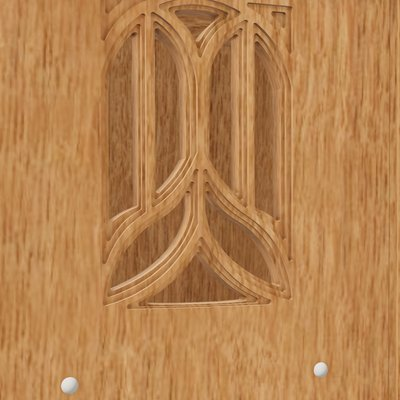
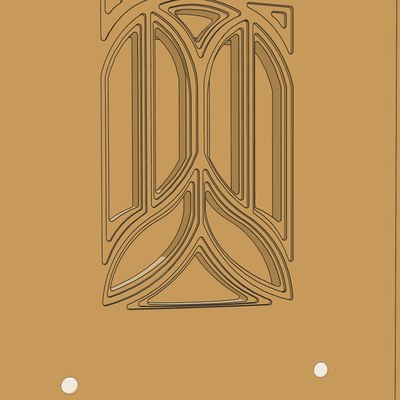
Aumbry 2.0 previews in a flat drawn style, no orange track
Renders now use flat oak, ink and birch fills with ink edge lines
(tools/aumbry/flat.html). Adds the RFID plate and the wall display
shots, built from the clean model, so no 2024 orange-track image remains.

Claude-Session: https://claude.ai/code/session_011HzqZZDN1sfoAAF3ZfSuU4

diff --git a/tools/aumbry/flat.html b/tools/aumbry/flat.html
@@ -1,0 +1,136 @@
+<!doctype html><html><head><meta charset="utf-8">
+<style>html,body{margin:0;background:transparent}canvas{display:block}</style>
+<script type="importmap">{"imports":{"three":"./npm/package/build/three.module.js","three/addons/":"./npm/package/examples/jsm/"}}</script>
+</head><body>
+<script type="module">
+// Flat "3D sketch" render of the Aumbry: palette fills from the Yarden Amir design system,
+// three tone bands per material, ink edge lines, a flat cast shadow. Transparent background.
+import * as THREE from 'three';
+import { LineSegments2 } from 'three/addons/lines/LineSegments2.js';
+import { LineSegmentsGeometry } from 'three/addons/lines/LineSegmentsGeometry.js';
+import { LineMaterial } from 'three/addons/lines/LineMaterial.js';
+const P = Object.fromEntries(new URLSearchParams(location.search));
+const W = +P.w || 1600, H = +P.h || 1200, SS = +P.ss || 2;
+THREE.Object3D.DEFAULT_UP.set(0, 0, 1);
+THREE.ColorManagement.enabled = false;
+const renderer = new THREE.WebGLRenderer({ antialias: true, alpha: true, preserveDrawingBuffer: true });
+renderer.outputColorSpace = THREE.LinearSRGBColorSpace; // colours below are written straight to screen
+renderer.setPixelRatio(1); renderer.setSize(W * SS, H * SS); renderer.setClearColor(0, 0);
+renderer.shadowMap.enabled = true; renderer.shadowMap.type = THREE.PCFShadowMap;
+document.body.appendChild(renderer.domElement);
+const scene = new THREE.Scene();
+const C = (h) => new THREE.Color(h);
+const mix = (a, b, t) => C(a).lerp(C(b), t);
+// tokens: oak #C79A5B, oak-deep #7A5A30, birch #F1E9DC, ink #262422, paper #FFFFFF
+const TONES = {
+  wood: [mix('#C79A5B', '#F1E9DC', 0.38), C('#C79A5B'), mix('#C79A5B', '#7A5A30', 0.42), mix('#C79A5B', '#7A5A30', 0.78)],
+  aluminium: [C('#4a4642'), C('#3a3633'), C('#262422'), C('#262422')],
+  dowels: [C('#FFFFFF'), C('#F1E9DC'), mix('#F1E9DC', '#C79A5B', 0.35), mix('#F1E9DC', '#C79A5B', 0.35)],
+  plate: [C('#4a4642'), C('#3a3633'), C('#262422'), C('#262422')],
+  plinth: [C('#FFFFFF'), C('#F1E9DC'), mix('#F1E9DC', '#C79A5B', 0.3), mix('#F1E9DC', '#C79A5B', 0.3)],
+};
+const L = new THREE.Vector3(+P.lx || -0.3, +P.ly || -0.9, +P.lz || 0.3).normalize();
+const toneMat = (t) => new THREE.ShaderMaterial({
+  uniforms: { c0: { value: t[0] }, c1: { value: t[1] }, c2: { value: t[2] }, c3: { value: t[3] }, L: { value: L } },
+  vertexShader: `varying vec3 vN; void main(){ vN = normalize(mat3(modelMatrix) * normal); gl_Position = projectionMatrix * viewMatrix * modelMatrix * vec4(position,1.); }`,
+  fragmentShader: `uniform vec3 c0,c1,c2,c3,L; varying vec3 vN;
+    void main(){ vec3 n = normalize(vN); float d = dot(n, L);
+      vec3 c = n.z > 0.72 ? c0 : (d > 0.45 ? c1 : (d > -0.35 ? c2 : c3));
+      gl_FragColor = vec4(c, 1.); }`,
+  polygonOffset: true, polygonOffsetFactor: 1, polygonOffsetUnits: 1,
+});
+const lineMat = new LineMaterial({ color: 0x262422, linewidth: (+P.lw || 1.1) * SS, worldUnits: false });
+lineMat.resolution.set(W * SS, H * SS);
+const thin = new LineMaterial({ color: 0x262422, linewidth: (+P.lw || 1.1) * 0.6 * SS, worldUnits: false, transparent: true, opacity: 0.55 });
+thin.resolution.set(W * SS, H * SS);
+
+const ix = await (await fetch('model.json')).json();
+const buf = await (await fetch('model.bin')).arrayBuffer();
+const arr = (k, key) => { const [o, n] = ix[k][key]; return key === 'F' ? new Uint32Array(buf, o, n) : new Float32Array(buf, o, n); };
+const center = new THREE.Vector3(9572, -2165, -596);
+const geoms = {};
+for (const k of Object.keys(ix)) {
+  const g = new THREE.BufferGeometry();
+  g.setAttribute('position', new THREE.BufferAttribute(arr(k, 'V'), 3));
+  g.setAttribute('normal', new THREE.BufferAttribute(arr(k, 'N'), 3));
+  g.setIndex(new THREE.BufferAttribute(arr(k, 'F'), 1));
+  g.translate(-center.x, -center.y, -center.z);
+  geoms[k] = g;
+}
+const edgeCache = {};
+const edgesOf = (k, g) => edgeCache[k] || (edgeCache[k] = new LineSegmentsGeometry().setPositions(new THREE.EdgesGeometry(g, +P.ang || 28).attributes.position.array));
+const mats = Object.fromEntries(Object.entries(TONES).map(([k, t]) => [k, toneMat(t)]));
+function addPart(k, group, kind) {
+  const g = geoms[k]; const m = new THREE.Mesh(g, mats[kind || k.split(':')[0]]);
+  m.castShadow = true; group.add(m);
+  const isDowel = k.startsWith('dowels');
+  group.add(new LineSegments2(edgesOf(k, g), isDowel ? thin : lineMat));
+  return m;
+}
+const aumbry = new THREE.Group(); scene.add(aumbry);
+for (const k of Object.keys(geoms)) addPart(k, aumbry);
+function addBox(group, sx, sy, sz, x, y, z, kind) {
+  const g = new THREE.BoxGeometry(sx, sy, sz); g.translate(x, y, z);
+  const m = new THREE.Mesh(g, mats[kind]); m.castShadow = m.receiveShadow = true; group.add(m);
+  group.add(new LineSegments2(new LineSegmentsGeometry().setPositions(new THREE.EdgesGeometry(g).attributes.position.array), lineMat));
+  return m;
+}
+if (P.rfid) {
+  // the RFID lock plate on the track beside the door, as in the 2024 proposal
+  const zc = +P.rfid;
+  addBox(aumbry, 64, 3, 64, -159, -178.5, zc, 'plate');
+  // contactless mark, drawn as lines on the plate face
+  const pts = []; const y = -180.2;
+  const arc = (r) => { for (let i = 0; i < 16; i++) { const a0 = -0.75 + 1.5 * i / 16, a1 = -0.75 + 1.5 * (i + 1) / 16;
+    pts.push(-159 - 12 + r * Math.cos(a0), y, zc + r * Math.sin(a0), -159 - 12 + r * Math.cos(a1), y, zc + r * Math.sin(a1)); } };
+  [8, 15, 22].forEach(arc);
+  const mk = new LineMaterial({ color: 0xF1E9DC, linewidth: 1.6 * SS }); mk.resolution.set(W * SS, H * SS);
+  aumbry.add(new LineSegments2(new LineSegmentsGeometry().setPositions(pts), mk));
+}
+if (P.display) {
+  // proposed display: the front panels milled a second time and hung flat on the wall behind, aumbry on a plinth
+  const wallY = +P.wally || 900, dx = +P.ax || -420;
+  aumbry.position.set(dx, 0, 120);
+  addBox(scene, 1180, 560, 120, dx, 10, 60, 'plinth');
+  const wall = new THREE.Group(); scene.add(wall);
+  // panels: [key, x offset of its centre on the wall, z of its bottom]
+  const hang = [['wood:97', 0, 0], ['wood:92', 400, 245], ['wood:96', 800, 0]];
+  const sides = [];
+  const x0 = +P.wx || 120, z0 = +P.wz || 220;
+  for (const [k, x, dz] of hang) {
+    const g = geoms[k]; g.computeBoundingBox(); const b = g.boundingBox;
+    const grp = new THREE.Group(); addPart(k, grp);
+    grp.position.set(x0 + x - (b.min.x + b.max.x) / 2, wallY - 45 - b.max.y, z0 + dz - b.min.z); wall.add(grp);
+  }
+  for (const [k, x] of sides) {
+    const g = geoms[k]; g.computeBoundingBox(); const b = g.boundingBox;
+    const grp = new THREE.Group(); const inner = new THREE.Group(); addPart(k, inner);
+    inner.rotation.z = (k === 'wood:89' ? -1 : 1) * Math.PI / 2; grp.add(inner); wall.add(grp);
+    const bb = new THREE.Box3().setFromObject(inner);
+    grp.position.set(x0 + x - (bb.min.x + bb.max.x) / 2, wallY - bb.max.y, z0 - bb.min.z);
+  }
+  const wallM = new THREE.Mesh(new THREE.PlaneGeometry(20000, 6000), new THREE.ShadowMaterial({ opacity: 0.2, color: 0x262422 }));
+  // where the wall meets the floor: one thin ink line
+  const fl = new LineMaterial({ color: 0x262422, linewidth: 0.8 * SS, transparent: true, opacity: 0.5 }); fl.resolution.set(W * SS, H * SS);
+  scene.add(new LineSegments2(new LineSegmentsGeometry().setPositions([-4000, wallY, 0, 5000, wallY, 0]), fl));
+  wallM.rotation.x = Math.PI / 2; wallM.position.set(0, wallY + 1, 3000); wallM.receiveShadow = true; scene.add(wallM);
+}
+const ground = new THREE.Mesh(new THREE.PlaneGeometry(20000, 20000), new THREE.ShadowMaterial({ opacity: +P.sh || 0.13, color: 0x262422 }));
+ground.receiveShadow = true; scene.add(ground);
+const key = new THREE.DirectionalLight(0xffffff, 1);
+const ka = (+P.ka || -35) * Math.PI / 180, ke = (+P.ke || 55) * Math.PI / 180;
+key.position.set(4000 * Math.sin(ka) * Math.cos(ke), -4000 * Math.cos(ka) * Math.cos(ke), 4000 * Math.sin(ke));
+key.castShadow = true; key.shadow.mapSize.set(4096, 4096);
+Object.assign(key.shadow.camera, { left: -2200, right: 2200, top: 2200, bottom: -2200, near: 100, far: 10000 });
+key.shadow.bias = -0.0005; scene.add(key);
+const az = (+P.az || 0) * Math.PI / 180, el = (+P.el || 8) * Math.PI / 180, dist = +P.dist || 3600;
+const tgt = new THREE.Vector3(+P.tx || 0, +P.ty || 0, P.tz !== undefined ? +P.tz : 545);
+const cam = new THREE.PerspectiveCamera(+P.fov || 30, W / H, 10, 30000);
+cam.position.set(tgt.x + dist * Math.sin(az) * Math.cos(el), tgt.y - dist * Math.cos(az) * Math.cos(el), tgt.z + dist * Math.sin(el));
+cam.lookAt(tgt);
+renderer.render(scene, cam);
+const out = document.createElement('canvas'); out.width = W; out.height = H; out.id = 'out';
+const c2 = out.getContext('2d'); c2.imageSmoothingQuality = 'high'; c2.drawImage(renderer.domElement, 0, 0, W, H);
+document.body.appendChild(out);
+window.DONE = true;
+</script></body></html>

diff --git a/v5/index.html b/v5/index.html
@@ -121,7 +121,7 @@ html.locked #ov{pointer-events:auto;touch-action:none;cursor:crosshair}
 <div style="font-family: 'IBM Plex Mono', ui-monospace, Menlo, monospace; font-size: 12px; font-weight: 500; letter-spacing: 0.08em; text-transform: uppercase; color: #7A5A30; padding-bottom: 8px; border-bottom: 1px solid #262422">03&nbsp;&nbsp;Selected work</div>
 <a href="https://studioya.github.io/pdf/lasers-ceramics.pdf" target="_blank" rel="noopener" style="display: flex; justify-content: space-between; align-items: center; gap: 12px; min-height: 72px; padding: 8px 0; border-bottom: 1px solid rgba(38, 36, 34, 0.18); text-decoration: none; color: #262422; font-size: 19px; line-height: 1.3"><img src="../img/085277a97b.jpg" alt="Ceramic test tile etched with a radial pattern of tones" style="display: block; width: 56px; height: 56px; flex: none; object-fit: cover; border-radius: 0"><span style="flex: 1; min-width: 0">Lasers × ceramics: research to objects</span><span style="font-family: 'IBM Plex Mono', ui-monospace, Menlo, monospace; font-size: 12px; color: #5F5A52; white-space: nowrap">2023–24 ↗</span></a>
 <a href="https://studioya.github.io/pdf/parametric-objects.pdf" target="_blank" rel="noopener" style="display: flex; justify-content: space-between; align-items: center; gap: 12px; min-height: 72px; padding: 8px 0; border-bottom: 1px solid rgba(38, 36, 34, 0.18); text-decoration: none; color: #262422; font-size: 19px; line-height: 1.3"><img src="../img/efdc1edb24.jpg" alt="Terracotta dish covered in a laser-etched black pixel pattern" style="display: block; width: 56px; height: 56px; flex: none; object-fit: cover; border-radius: 0"><span style="flex: 1; min-width: 0">Parametric objects</span><span style="font-family: 'IBM Plex Mono', ui-monospace, Menlo, monospace; font-size: 12px; color: #5F5A52; white-space: nowrap">2021–now ↗</span></a>
-<a href="https://studioya.github.io/pdf/aumbry-2.0.pdf" target="_blank" rel="noopener" style="display: flex; justify-content: space-between; align-items: center; gap: 12px; min-height: 72px; padding: 8px 0; border-bottom: 1px solid rgba(38, 36, 34, 0.18); text-decoration: none; color: #262422; font-size: 19px; line-height: 1.3"><img src="../img/aumbry-tracery.jpg" alt="Render of stepped, milled Gothic tracery in oak beside a black aluminium track" style="display: block; width: 56px; height: 56px; flex: none; object-fit: cover; border-radius: 0"><span style="flex: 1; min-width: 0">Aumbry 2.0: historical craft, redesigned</span><span style="font-family: 'IBM Plex Mono', ui-monospace, Menlo, monospace; font-size: 12px; color: #5F5A52; white-space: nowrap">2024–25 ↗</span></a>
+<a href="https://studioya.github.io/pdf/aumbry-2.0.pdf" target="_blank" rel="noopener" style="display: flex; justify-content: space-between; align-items: center; gap: 12px; min-height: 72px; padding: 8px 0; border-bottom: 1px solid rgba(38, 36, 34, 0.18); text-decoration: none; color: #262422; font-size: 19px; line-height: 1.3"><img src="../img/aumbry-tracery.jpg" alt="Drawing of stepped, milled Gothic tracery in oak beside a black aluminium track" style="display: block; width: 56px; height: 56px; flex: none; object-fit: cover; border-radius: 0"><span style="flex: 1; min-width: 0">Aumbry 2.0: historical craft, redesigned</span><span style="font-family: 'IBM Plex Mono', ui-monospace, Menlo, monospace; font-size: 12px; color: #5F5A52; white-space: nowrap">2024–25 ↗</span></a>
 </div>
 
 <div style="display: flex; flex-direction: column; gap: 10px">

diff --git a/v6/index.html b/v6/index.html
@@ -125,7 +125,7 @@ html.locked #ov{pointer-events:auto;touch-action:none;cursor:crosshair}
 <div style="font-family: 'IBM Plex Mono', ui-monospace, Menlo, monospace; font-size: 12px; font-weight: 500; letter-spacing: 0.08em; text-transform: uppercase; color: #7A5A30; padding-bottom: 8px; border-bottom: 1px solid #262422">03&nbsp;&nbsp;Selected work</div>
 <a href="https://studioya.github.io/pdf/lasers-ceramics.pdf" target="_blank" rel="noopener" style="display: flex; justify-content: space-between; align-items: center; gap: 12px; min-height: 72px; padding: 8px 0; border-bottom: 1px solid rgba(38, 36, 34, 0.18); text-decoration: none; color: #262422; font-size: 19px; line-height: 1.3"><img src="../img/085277a97b.jpg" alt="Ceramic test tile etched with a radial pattern of tones" style="display: block; width: 56px; height: 56px; flex: none; object-fit: cover; border-radius: 0"><span style="flex: 1; min-width: 0">Lasers × ceramics: research to objects</span><span style="font-family: 'IBM Plex Mono', ui-monospace, Menlo, monospace; font-size: 12px; color: #5F5A52; white-space: nowrap">2023–24 ↗</span></a>
 <a href="https://studioya.github.io/pdf/parametric-objects.pdf" target="_blank" rel="noopener" style="display: flex; justify-content: space-between; align-items: center; gap: 12px; min-height: 72px; padding: 8px 0; border-bottom: 1px solid rgba(38, 36, 34, 0.18); text-decoration: none; color: #262422; font-size: 19px; line-height: 1.3"><img src="../img/efdc1edb24.jpg" alt="Terracotta dish covered in a laser-etched black pixel pattern" style="display: block; width: 56px; height: 56px; flex: none; object-fit: cover; border-radius: 0"><span style="flex: 1; min-width: 0">Parametric objects</span><span style="font-family: 'IBM Plex Mono', ui-monospace, Menlo, monospace; font-size: 12px; color: #5F5A52; white-space: nowrap">2021–now ↗</span></a>
-<a href="https://studioya.github.io/pdf/aumbry-2.0.pdf" target="_blank" rel="noopener" style="display: flex; justify-content: space-between; align-items: center; gap: 12px; min-height: 72px; padding: 8px 0; border-bottom: 1px solid rgba(38, 36, 34, 0.18); text-decoration: none; color: #262422; font-size: 19px; line-height: 1.3"><img src="../img/aumbry-tracery.jpg" alt="Render of stepped, milled Gothic tracery in oak beside a black aluminium track" style="display: block; width: 56px; height: 56px; flex: none; object-fit: cover; border-radius: 0"><span style="flex: 1; min-width: 0">Aumbry 2.0: historical craft, redesigned</span><span style="font-family: 'IBM Plex Mono', ui-monospace, Menlo, monospace; font-size: 12px; color: #5F5A52; white-space: nowrap">2024–25 ↗</span></a>
+<a href="https://studioya.github.io/pdf/aumbry-2.0.pdf" target="_blank" rel="noopener" style="display: flex; justify-content: space-between; align-items: center; gap: 12px; min-height: 72px; padding: 8px 0; border-bottom: 1px solid rgba(38, 36, 34, 0.18); text-decoration: none; color: #262422; font-size: 19px; line-height: 1.3"><img src="../img/aumbry-tracery.jpg" alt="Drawing of stepped, milled Gothic tracery in oak beside a black aluminium track" style="display: block; width: 56px; height: 56px; flex: none; object-fit: cover; border-radius: 0"><span style="flex: 1; min-width: 0">Aumbry 2.0: historical craft, redesigned</span><span style="font-family: 'IBM Plex Mono', ui-monospace, Menlo, monospace; font-size: 12px; color: #5F5A52; white-space: nowrap">2024–25 ↗</span></a>
 </div>
 
 <div style="display: flex; flex-direction: column; gap: 10px">

diff --git a/index.html b/index.html
@@ -84,7 +84,7 @@ button:disabled{opacity:.45;cursor:default}
 <div style="font-family: 'IBM Plex Mono', ui-monospace, Menlo, monospace; font-size: 12px; font-weight: 500; letter-spacing: 0.08em; text-transform: uppercase; color: #7A5A30; padding-bottom: 8px; border-bottom: 1px solid #262422">03&nbsp;&nbsp;Selected work</div>
 <a href="https://studioya.github.io/pdf/lasers-ceramics.pdf" target="_blank" rel="noopener" style="display: flex; justify-content: space-between; align-items: center; gap: 12px; min-height: 72px; padding: 8px 0; border-bottom: 1px solid rgba(38, 36, 34, 0.18); text-decoration: none; color: #262422; font-size: 19px; line-height: 1.3"><img src="img/085277a97b.jpg" alt="Ceramic test tile etched with a radial pattern of tones" style="display: block; width: 56px; height: 56px; flex: none; object-fit: cover; border-radius: 0"><span style="flex: 1; min-width: 0">Lasers × ceramics: research to objects</span><span style="font-family: 'IBM Plex Mono', ui-monospace, Menlo, monospace; font-size: 12px; color: #5F5A52; white-space: nowrap">2023–24 ↗</span></a>
 <a href="https://studioya.github.io/pdf/parametric-objects.pdf" target="_blank" rel="noopener" style="display: flex; justify-content: space-between; align-items: center; gap: 12px; min-height: 72px; padding: 8px 0; border-bottom: 1px solid rgba(38, 36, 34, 0.18); text-decoration: none; color: #262422; font-size: 19px; line-height: 1.3"><img src="img/efdc1edb24.jpg" alt="Terracotta dish covered in a laser-etched black pixel pattern" style="display: block; width: 56px; height: 56px; flex: none; object-fit: cover; border-radius: 0"><span style="flex: 1; min-width: 0">Parametric objects</span><span style="font-family: 'IBM Plex Mono', ui-monospace, Menlo, monospace; font-size: 12px; color: #5F5A52; white-space: nowrap">2021–now ↗</span></a>
-<a href="https://studioya.github.io/pdf/aumbry-2.0.pdf" target="_blank" rel="noopener" style="display: flex; justify-content: space-between; align-items: center; gap: 12px; min-height: 72px; padding: 8px 0; border-bottom: 1px solid rgba(38, 36, 34, 0.18); text-decoration: none; color: #262422; font-size: 19px; line-height: 1.3"><img src="img/aumbry-tracery.jpg" alt="Render of stepped, milled Gothic tracery in oak beside a black aluminium track" style="display: block; width: 56px; height: 56px; flex: none; object-fit: cover; border-radius: 0"><span style="flex: 1; min-width: 0">Aumbry 2.0: historical craft, redesigned</span><span style="font-family: 'IBM Plex Mono', ui-monospace, Menlo, monospace; font-size: 12px; color: #5F5A52; white-space: nowrap">2024–25 ↗</span></a>
+<a href="https://studioya.github.io/pdf/aumbry-2.0.pdf" target="_blank" rel="noopener" style="display: flex; justify-content: space-between; align-items: center; gap: 12px; min-height: 72px; padding: 8px 0; border-bottom: 1px solid rgba(38, 36, 34, 0.18); text-decoration: none; color: #262422; font-size: 19px; line-height: 1.3"><img src="img/aumbry-tracery.jpg" alt="Drawing of stepped, milled Gothic tracery in oak beside a black aluminium track" style="display: block; width: 56px; height: 56px; flex: none; object-fit: cover; border-radius: 0"><span style="flex: 1; min-width: 0">Aumbry 2.0: historical craft, redesigned</span><span style="font-family: 'IBM Plex Mono', ui-monospace, Menlo, monospace; font-size: 12px; color: #5F5A52; white-space: nowrap">2024–25 ↗</span></a>
 </div>
 
 <div style="display: flex; flex-direction: column; gap: 10px">

diff --git a/tools/aumbry/shoot.js b/tools/aumbry/shoot.js
@@ -6,7 +6,7 @@ const { chromium } = require('playwright');
   const p = await b.newPage();
   p.on('console', (m) => console.log('console:', m.text())); p.on('pageerror', (e) => console.log('err:', e.message));
   for (const [out, q] of jobs) {
-    await p.goto('http://127.0.0.1:8765/render.html?' + q);
+    await p.goto('http://127.0.0.1:8765/' + (process.env.PAGE || 'render.html') + '?' + q);
     await p.waitForFunction('window.DONE === true', null, { timeout: 300000 });
     const data = await p.evaluate(() => document.getElementById('out').toDataURL('image/png'));
     require('fs').writeFileSync(out, Buffer.from(data.split(',')[1], 'base64'));

diff --git a/tools/aumbry/swap.py b/tools/aumbry/swap.py
@@ -8,12 +8,12 @@ def flat(name, ground, size):
     im = Image.open(f'{R}/{name}.png').convert('RGBA')
     g = Image.new('RGBA', im.size, ground); g.alpha_composite(im)
     return g.convert('RGB').resize(size, Image.LANCZOS)
-# object id of the image XObject -> (render, ground); the RFID plate and the display proposal are not in the model, so they stay
+# object id of the image XObject -> (render, ground)
 JOBS = {
     'aumbry-2.0.pdf': ({46: ('cover', WHITE), 211: ('door', BIRCH), 291: ('tracery', BIRCH), 293: ('dowels', BIRCH),
-                        297: ('tracks', BIRCH), 393: ('back', WHITE)}, 1.0),
+                        297: ('tracks', BIRCH), 393: ('back', WHITE), 295: ('rfid', BIRCH), 391: ('display', WHITE)}, 1.0),
     'aumbry-2.0-mobile.pdf': ({57: ('cover', WHITE), 222: ('door', WHITE), 302: ('tracery', WHITE), 304: ('dowels', WHITE),
-                               308: ('tracks', WHITE), 404: ('back', WHITE)}, 1.0),
+                               308: ('tracks', WHITE), 404: ('back', WHITE), 306: ('rfid', WHITE), 402: ('display', WHITE)}, 1.0),
 }
 src, out = sys.argv[2], sys.argv[3]
 for fn, (jobs, _) in JOBS.items():

diff --git a/tools/aumbry/run.py b/tools/aumbry/run.py
@@ -1,6 +1,6 @@
 import json, subprocess, sys, os
 shots = json.load(open('shots.json')); scale = float(sys.argv[1]); names = sys.argv[2:] or list(shots)
-base = 'key=2.8&hemi=0.35&env=0.4&blur=24'
+base = os.environ.get('BASE', '')
 jobs = [[f'out/{n}.png', f"{base}&{shots[n]['q']}&w={int(shots[n]['w']*scale)}&h={int(shots[n]['h']*scale)}"] for n in names]
 env = dict(os.environ, NODE_PATH=subprocess.check_output(['npm', 'root', '-g'], text=True).strip())
 subprocess.run(['node', 'shoot.js', json.dumps(jobs)], env=env, check=True)

diff --git a/tools/README.md b/tools/README.md
@@ -9,5 +9,5 @@ Kept here so the generated pages can be rebuilt.
 Paths inside point at the working folders used when they were written; adjust before running.
 - `aumbry/`: renders the Aumbry 2.0 previews from `aumbry 2.0 clean.3dm` (Drive, projects/aumbry 2.0) and swaps them into the portfolio PDFs.
   1. `python3 export.py "aumbry 2.0 clean.3dm" model` writes `model.bin`/`model.json` from the render meshes cached in the file (needs `rhino3dm`).
-  2. Put `oak.jpg` (the "Oak light" texture) and three.js 0.170 (`npm pack three@0.170.0`, unpacked to `npm/package`) next to `render.html`, serve the folder on port 8765, then `python3 run.py 1.25` renders every shot in `shots.json` to `out/*.png` (transparent, so each can be laid on white or birch).
+  2. Put `oak.jpg` (the "Oak light" texture) and three.js 0.170 (`npm pack three@0.170.0`, unpacked to `npm/package`) next to `render.html`, serve the folder on port 8765, then `BASE=lw=1.6 PAGE=flat.html python3 run.py 1.25` renders every shot in `shots.json` to `out/*.png` (transparent, so each can be laid on white or birch). `flat.html` is the house style: flat oak/ink/birch fills in three tone bands, ink edge lines, a flat shadow. `render.html` is the earlier textured version.
   3. `python3 swap.py out <dir with the current PDFs> <out dir>` replaces the render images in `aumbry-2.0.pdf` and `aumbry-2.0-mobile.pdf`, keeping layout and text. Grounds follow the design system: white on white pages, birch (#F1E9DC) on birch pages.
